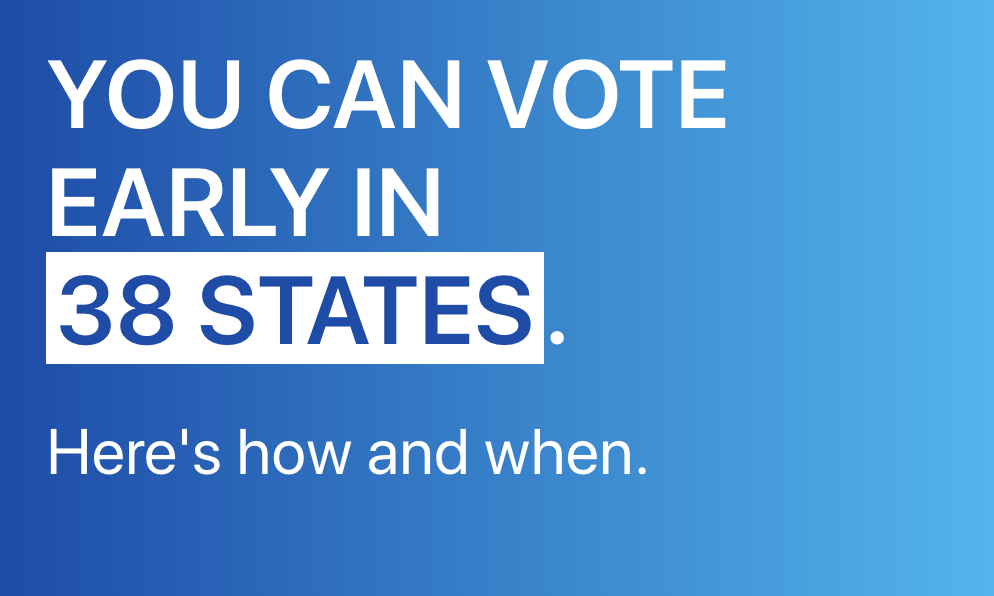
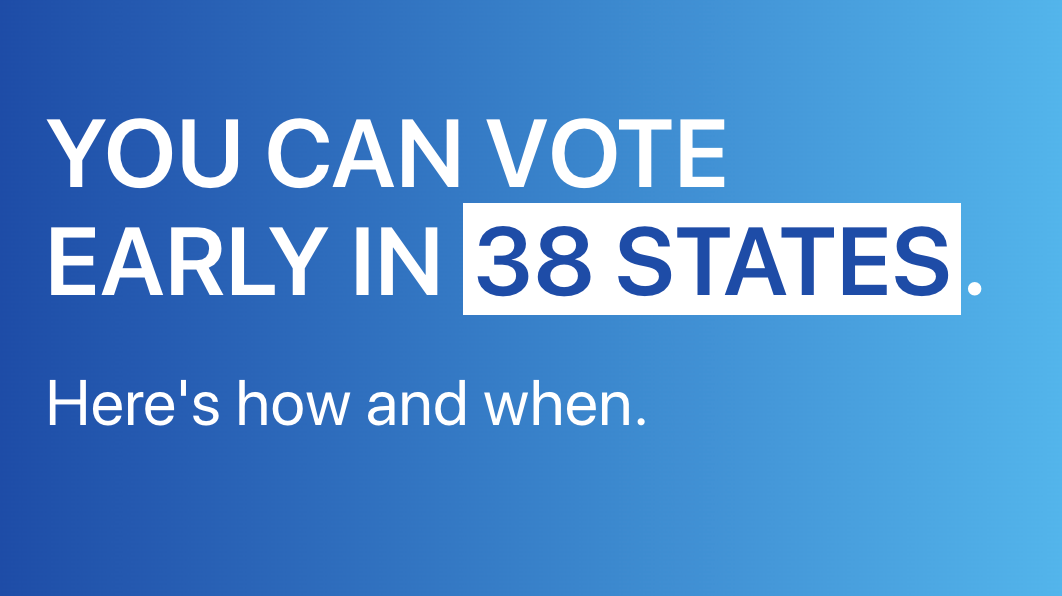
Functional Twitter, Facebook and iMessage share cards

Changed region(s): [[0.0312, 0.0906, 0.9356, 0.8154]]

diff --git a/src/components/helmet.js b/src/components/helmet.js
@@ -1,40 +1,39 @@
 import React from 'react';
-import { StaticQuery, graphql } from 'gatsby';
+import { withPrefix } from 'gatsby';
+import useSiteMetadata from '../hooks/use-site-metadata';
 import Helmet from 'react-helmet';
+import shareImage from '../images/share.png';
 
-export default () => (
-	<StaticQuery
-		query={graphql`
-			query helmetQuery {
-				site {
-					siteMetadata {
-						title
-						author
-						imageUrl
-						description
-						keywords
-					}
-				}
-			}
-		`}
-		render={data => (
-			<Helmet>
-				<meta
-					name="viewport"
-					content="width=device-width, initial-scale=1, maximum-scale=1, user-scalable=0"
-				/>
-				<meta name="description" content={data.site.siteMetadata.description} />
-				<meta name="keywords" content={data.site.siteMetadata.keywords} />
-				<title>{data.site.siteMetadata.title}</title>
-				<html lang="en" />
-				{/* Google / Search Engine Meta Tags */}
-				<meta itemprop="name" content={data.site.siteMetadata.author} />
-				<meta
-					itemprop="description"
-					content={data.site.siteMetadata.description}
-				/>
-				<meta itemprop="image" content={data.site.siteMetadata.imageUrl} />
-			</Helmet>
-		)}
-	/>
-);
+export default () => {
+	const siteMetadata = useSiteMetadata();
+
+	return (
+		<Helmet>
+			<meta
+				name="viewport"
+				content="width=device-width, initial-scale=1, maximum-scale=1, user-scalable=0"
+			/>
+			<meta name="description" content={siteMetadata.description} />
+			<meta name="keywords" content={siteMetadata.keywords} />
+			<title>{siteMetadata.title}</title>
+			<html lang="en" />
+			{/* Google / Search Engine Meta Tags */}
+			<meta itemprop="name" content={siteMetadata.author} />
+			<meta
+				itemprop="description"
+				content={siteMetadata.description}
+			/>
+			<meta itemprop="image" content={`${siteMetadata.siteUrl}${shareImage}`} />
+
+			<meta property="og:title" content="How to vote early in your state" />
+			<meta property="og:image" content={`${siteMetadata.siteUrl}${shareImage}`} />
+			<meta property="og:description" content={siteMetadata.description} />
+
+			<meta name="twitter:card" content="summary_large_image" />
+			<meta name="twitter:site" content="@earlyvoting" />
+			<meta name="twitter:title" content="How to vote early in your state" />
+			<meta name="twitter:description" content="Let's get this over with!" />
+			<meta name="twitter:image" content={`${siteMetadata.siteUrl}${shareImage}`} />
+		</Helmet>
+	)
+};

diff --git a/src/hooks/use-site-metadata.js b/src/hooks/use-site-metadata.js
@@ -1,0 +1,22 @@
+import { useStaticQuery, graphql } from 'gatsby';
+
+const useSiteMetadata = () => {
+  const { site } = useStaticQuery(
+  graphql`
+    query {
+      site {
+        siteMetadata {
+          title
+          description
+          author
+          siteUrl
+          imageUrl
+        }
+      }
+    }
+  `,
+  );
+  return site.siteMetadata;
+};
+
+export default useSiteMetadata;

diff --git a/gatsby-config.js b/gatsby-config.js
@@ -12,7 +12,7 @@ module.exports = {
 		// gatsby: 'https://www.gatsbyjs.org/',
 		// bulma: 'https://bulma.io/',
 		voteAmerica: 'https://www.voteamerica.com/',
-		siteUrl: `https://www.earlyvoting.org`
+		siteUrl: 'https://www.deanputney.com'
 	},
 	plugins: [
 		{
